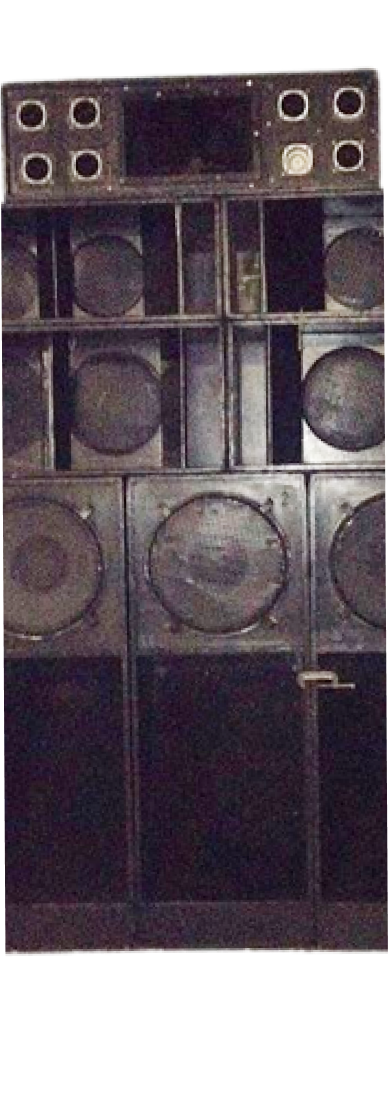
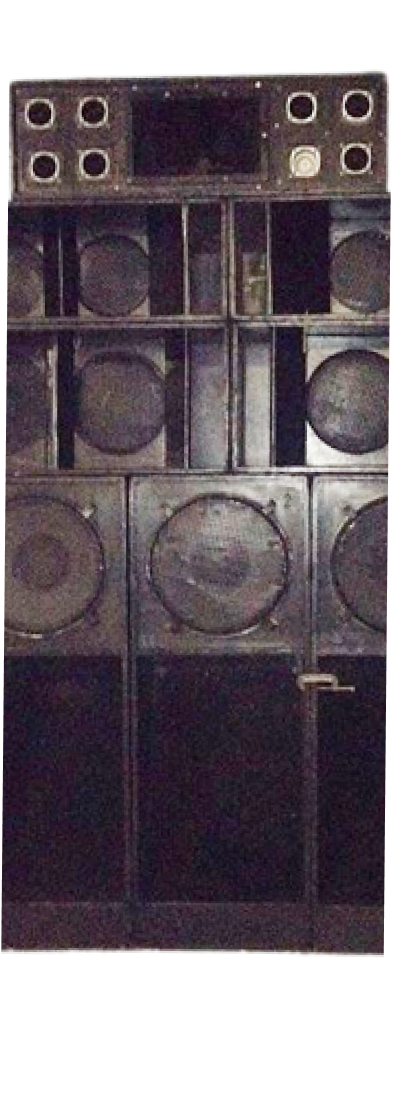
pics and graffiti

diff --git a/arcade-codepen.html b/arcade-codepen.html
@@ -16,7 +16,6 @@
                         <div class="side capleft"></div>
                         <div class="side capright"></div>
                         <div class="side capfront">
-                            <div class="skull1 small"></div>
                             <div class="logo">
                                 <img src="dizzylogo.png" id="logofront">
                             </div>
@@ -66,17 +65,20 @@
                 <div class="box main">
                     <div class="side mainright">
                         <div class="logo"></div>
-                        <div class="skull2 big"></div>
+                        <img src="ssR.png" id="ssR">
+                        <img src="think.png" id="ssRtop">
+                        <img src="gotdubz.png" id="gotdubz">140</h2>
                     </div>
                     <div class="side mainright inner"></div>
                     <div class="side mainleft inner"></div>
                     <div class="side mainleft">
                         <div class="logo"></div>
-                        <div class="skull2 big"></div>
+                        <img src="ssL.png" id="ssL">
+                
                     </div>
                     <div class="side mainbottom"></div>
                     <div class="side mainback">
-                        <img src="ssB.png" id="logoback">
+                        <img src="ssB.png" id="ssB">
                         <div class="powersocket"></div>
                     </div>
                 </div>

diff --git a/arcade-codepen.css b/arcade-codepen.css
@@ -35,7 +35,7 @@ body {
   position: relative;
   width: 380px;
   transform-style: preserve-3d;
-  animation: spin 5s linear infinite;
+  animation: spin 10s linear infinite;
   animation-play-state: running;
   transition: all 1.5s;
   transform: rotateY(89deg);
@@ -324,19 +324,6 @@ body {
   animation: none;
 }
 
-
-.invader1.big {
-  left: 20px;
-}
-
-.invader2.big {
-  left: 80px;
-}
-
-.invader3.big {
-  left: 20px;
-}
-
 .row {
   width: 144em;
   height: 15em;
@@ -445,11 +432,44 @@ body {
    height: 110px;
 }
 
-#logoback {
+#ssB {
   position: relative;
-  top: -35px;
-  width: 380px;
-  height: 960px;
+  top: -61px;
+  width: 392px;
+  height: 989px;
+  left: -6px;
+}
+
+#ssR{
+  position: relative;
+  height: 993px;
+  width: 362px;
+  top: -65px;
+  left: -34px;
+}
+#ssL{
+  position: relative;
+  height: 990px;
+  width: 362px;
+  top: -64px;
+  left: -3px;
+  z-index: 0;
+}
+
+#ssRtop{
+  position:relative;
+  z-index: 2;
+  top: -1060px;
+  left: -50px;
+  height: 550px;
+  width: 400px;
+}
+
+#gotdubz{
+  position:relative;
+  z-index: 3;
+  top: -1175px;
+  left: -30px;
 }
 
 .cap .logo {
